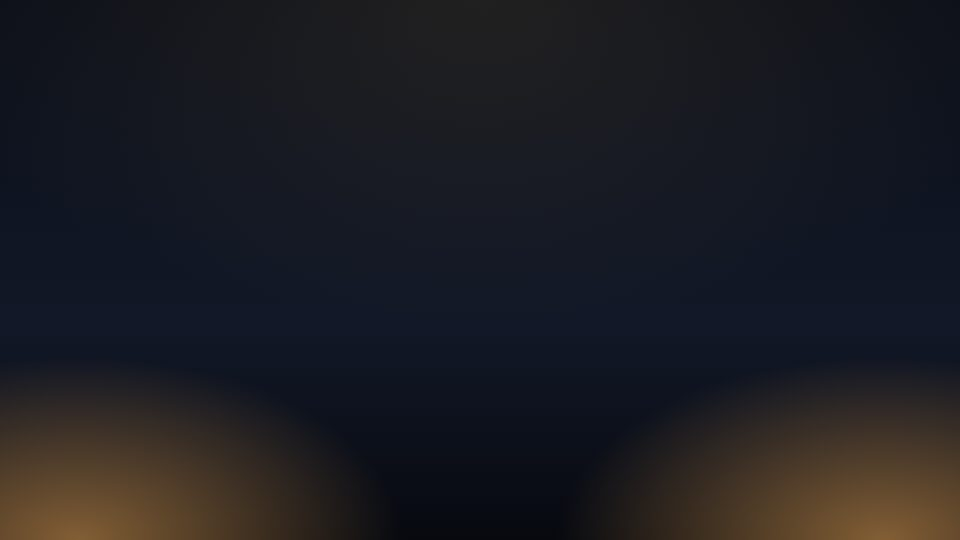
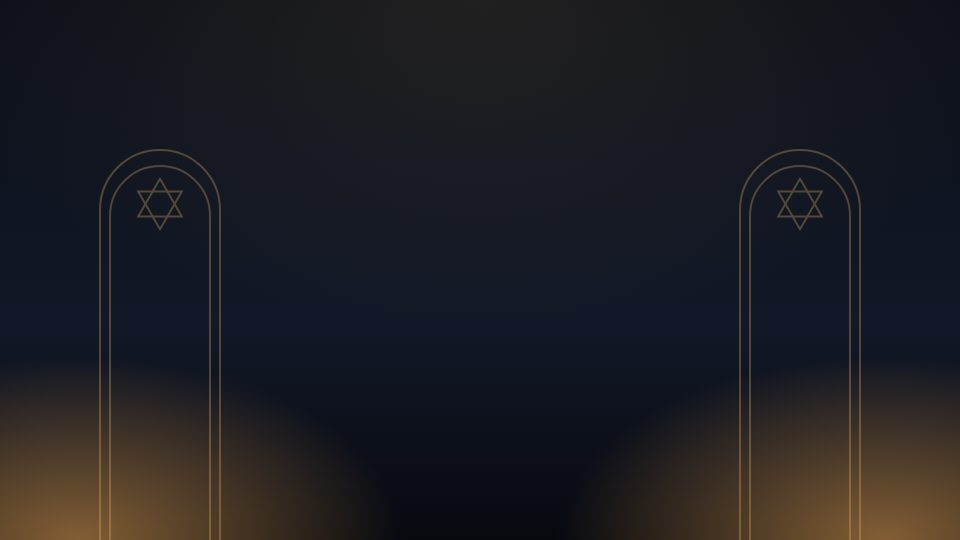
ארבעה עיצובים מוכנים במקום הציורים, והעברה אוטומטית של לוחות מצוירים
- "עיצובים מוכנים": וילון כחול וזהב, לוחות הברית מאבן, מסגרת עץ מגולפת
  ואולם מודרני - כל ציור בנוי מחדש מחלקים (רקע, מסגרות, צבעי טקסט,
  פריסת מדליון), וכל חלק ניתן אחר כך לשינוי בנפרד.
- migratePainted: מעביר לוח מצויר לעיצוב שמחליף את הציור שלו, ושומר את מה
  שהגבאי כיוון - גודל טקסט, בהירות וגוון, קו ועומק המסגרת, צבעי הדיו.
  היום בשבוע, התאריך והשעון מוצגים שוב (הציור הראה אותם תמיד). לוח עם
  ציור מיובא נשאר כמו שהוא.
- במדליון השעון נשאר באמצע גם כשהיום בשבוע מוסתר, ולוחיות והפס התחתון
  לא נחתכים לקשת.
- "אולם כהה" קיבל קשתות עם מגן דוד בצדדים, בתוך השטח שהרקע הזז מראה.

Changed region(s): [[0.7812, 0.2667, 0.9062, 1.0], [0.0938, 0.2667, 0.2188, 1.0]]

diff --git a/src/tv/designs.ts b/src/tv/designs.ts
@@ -199,3 +199,104 @@ export function normalizeDesigns(raw: unknown, normalize: (raw: unknown) => TvCo
   }
   return out;
 }
+
+/* --------------------------------------------------- the ready designs -- */
+
+/**
+ * The painted boards, rebuilt from parts: each is a background from the
+ * library, frames (a style, a shape, a picture of a frame), the text's
+ * colours and the medallion layout. They stand where the four paintings
+ * stood, and unlike them every part can then be changed on its own.
+ *
+ * Only what the look needs is set: the text part carries colours, not the
+ * board's font or its per-line styling, so putting one on keeps those.
+ */
+const ALL: DesignPart[] = ["background", "frames", "text", "layout"];
+const text = (ink: string, dim: string, accent: string, onAccent = "#ffffff") => ({
+  "--tv-text": ink,
+  "--tv-text-dim": dim,
+  "--tv-accent": accent,
+  "--tv-accent-2": accent,
+  "--tv-on-accent": onAccent,
+});
+const background = (picture: string) => ({
+  backgroundGradient: null,
+  backgroundImage: picture,
+  backgroundDim: 0,
+  backgroundTune: { brightness: 1, saturation: 1, hue: 0, blur: 0, tint: null, tintStrength: 0.35 },
+});
+const frames = (patch: Partial<TvConfig["frameStyle"]>) => ({
+  fill: null,
+  fillOpacity: 1,
+  line: null,
+  lineWidth: 2,
+  depth: 0,
+  image: null,
+  imageSlice: 30,
+  imageWidth: 2.5,
+  ...patch,
+});
+
+export const BUILTIN_DESIGNS: SavedDesign[] = [
+  {
+    id: "d_curtain",
+    name: "וילון כחול וזהב",
+    parts: ALL,
+    theme: "royal",
+    colours: { ...text("#1f2d5c", "#4a5578", "#8a5a12"), "--tv-panel": "#f5ecd7" },
+    values: {
+      ...background("backdrop:royal"),
+      skin: "plain",
+      frame: { shape: "auto", top: null, bottom: null },
+      frameStyle: frames({ image: "frame:gold-ornate", imageSlice: 32, imageWidth: 3 }),
+      // The medallion in blue with a white clock, as in the painting.
+      frameLooks: { clock: { bg: "#1b3494", text: "#ffffff", accent: "#ffffff", line: "#d8d8d8", lineWidth: 2 } },
+      screenLayout: "medallion",
+    },
+  },
+  {
+    id: "d_stone",
+    name: "לוחות הברית מאבן",
+    parts: ALL,
+    theme: "stone",
+    colours: { ...text("#3a2a12", "#6b5a3b", "#8a5d12"), "--tv-panel": "#f3e7cc" },
+    values: {
+      ...background("backdrop:wall"),
+      skin: "plain",
+      frame: { shape: "arch", top: null, bottom: null },
+      frameStyle: frames({ fill: "#f3e7cc", line: "#b08d3a", lineWidth: 2.5, depth: 0.6 }),
+      frameLooks: {},
+      screenLayout: "medallion",
+    },
+  },
+  {
+    id: "d_wood",
+    name: "מסגרת עץ מגולפת",
+    parts: ALL,
+    theme: "stone",
+    colours: { ...text("#2b1d0c", "#5a4630", "#7a3e10"), "--tv-panel": "#f3e4c4" },
+    values: {
+      ...background("backdrop:wood"),
+      skin: "plain",
+      frame: { shape: "auto", top: null, bottom: null },
+      frameStyle: frames({ image: "frame:carved-wood", imageSlice: 24, imageWidth: 3 }),
+      frameLooks: { clock: { bg: "#f3e4c4", line: "#7a4a1c", lineWidth: 3 } },
+      screenLayout: "medallion",
+    },
+  },
+  {
+    id: "d_modern",
+    name: "אולם מודרני",
+    parts: ALL,
+    theme: "navy",
+    colours: { ...text("#f3f5f8", "#c9cdd6", "#e6c27a", "#0b1628"), "--tv-panel": "rgba(255, 255, 255, 0.06)" },
+    values: {
+      ...background("backdrop:hall"),
+      skin: "plain",
+      frame: { shape: "round", top: 2.4, bottom: 2.4 },
+      frameStyle: frames({ fill: "#ffffff", fillOpacity: 0.07, line: "#c9a24a", lineWidth: 1.5, depth: 0.45 }),
+      frameLooks: {},
+      screenLayout: "medallion",
+    },
+  },
+];

diff --git a/src/tv/paintedMigration.ts b/src/tv/paintedMigration.ts
@@ -1,0 +1,71 @@
+import type { TvConfig } from "./config";
+import { applyDesign, BUILTIN_DESIGNS } from "./designs";
+
+/**
+ * A painted board, moved onto the ready design that replaces its painting.
+ *
+ * The paintings were one picture each; the designs rebuild them from parts
+ * (a background, frames, the text's colours, the medallion layout). This
+ * puts a board that shows a painting onto its design, and then carries over
+ * what the gabbai had adjusted on the painting, each to the part that now
+ * owns it - so the wall looks as it did, and every part can be changed.
+ *
+ *   type size            illustratedStyle.scale  -> textScale
+ *   brightness, colour   brightness/saturation/hue, stone tint -> backgroundTune
+ *   a line, depth        frameLine/frameLineWidth/frameDepth -> frameStyle
+ *   inks                 ink/accent -> the text's colours; clockInk -> the clock frame
+ *
+ * The painting drew the weekday, the date and the clock whatever the board's
+ * "hidden" list said (that list was written for the ordinary header), so
+ * those three are shown again: the medallion honours the list, and a board
+ * should not lose its weekday by being moved.
+ *
+ * A board that is not painted, or whose painting has no design (an imported
+ * one), is returned as it is.
+ */
+export const DESIGN_FOR_PAINTING: Record<string, string> = {
+  curtain: "d_curtain",
+  stone: "d_stone",
+  wood: "d_wood",
+  modern: "d_modern",
+};
+
+export function migratePainted(c: TvConfig): TvConfig {
+  if (c.screenLayout !== "illustrated") return c;
+  const design = BUILTIN_DESIGNS.find((d) => d.id === DESIGN_FOR_PAINTING[c.illustration]);
+  if (!design) return c;
+
+  // What the painting's own settings were (older boards may carry more keys than the type knows).
+  const old = c.illustratedStyle as TvConfig["illustratedStyle"] & Record<string, unknown>;
+  const num = (k: string, d: number) => (typeof old[k] === "number" ? (old[k] as number) : d);
+  const str = (k: string) => (typeof old[k] === "string" && old[k] ? (old[k] as string) : null);
+
+  let next = applyDesign(c, design);
+
+  next = {
+    ...next,
+    textScale: old.scale ?? next.textScale,
+    backgroundTune: {
+      ...next.backgroundTune,
+      brightness: num("brightness", 1),
+      saturation: num("saturation", 1),
+      hue: num("hue", 0),
+      ...(str("stoneTint") ? { tint: str("stoneTint"), tintStrength: num("stoneTintStrength", 0.35) } : {}),
+    },
+    frameStyle: {
+      ...next.frameStyle,
+      ...(str("frameLine") ? { line: str("frameLine"), lineWidth: num("frameLineWidth", 2) } : {}),
+      ...(num("frameDepth", 0) > 0 ? { depth: num("frameDepth", 0) } : {}),
+    },
+    themeOverrides: {
+      ...next.themeOverrides,
+      ...(old.ink ? { "--tv-text": old.ink } : {}),
+      ...(old.accent ? { "--tv-accent": old.accent, "--tv-accent-2": old.accent } : {}),
+    },
+    frameLooks: old.clockInk
+      ? { ...next.frameLooks, clock: { ...next.frameLooks.clock, text: old.clockInk, accent: old.clockInk } }
+      : next.frameLooks,
+    hidden: next.hidden.filter((k) => k !== "header.weekday" && k !== "header.date" && k !== "header.clock"),
+  };
+  return next;
+}

diff --git a/src/community/components/admin/tv/DesignLibrary.tsx b/src/community/components/admin/tv/DesignLibrary.tsx
@@ -4,7 +4,10 @@ import { toast } from "sonner";
 import { Button } from "@/components/ui/button";
 import { Input } from "@/components/ui/input";
 import type { TvConfig } from "@/tv/config";
+import { findBackdrop } from "@/tv/backdrops";
+import { framePictureUrl } from "@/tv/framePictures";
 import {
+  BUILTIN_DESIGNS,
   DESIGN_PARTS,
   DESIGN_PART_LABELS,
   MAX_DESIGNS,
@@ -51,6 +54,45 @@ export function DesignLibrary({ config, onEdit }: { config: TvConfig; onEdit: Ed
 
   return (
     <div className="space-y-2" data-testid="design-library">
+      <div className="text-sm font-medium">עיצובים מוכנים</div>
+      <div className="grid grid-cols-2 gap-2 sm:grid-cols-4" data-testid="builtin-designs">
+        {BUILTIN_DESIGNS.map((d) => {
+          const wall = findBackdrop(d.values.backgroundImage ?? null);
+          const frame = framePictureUrl(d.values.frameStyle?.image ?? null);
+          return (
+            <button
+              key={d.id}
+              type="button"
+              onClick={() => onEdit("design-apply", (cfg) => applyDesign(cfg, d))}
+              className="overflow-hidden rounded-lg border text-right hover:border-primary/50"
+              title="רקע, מסגרות, צבעי טקסט ופריסת מדליון - וכל חלק ניתן אחר כך לשינוי בנפרד"
+            >
+              <span
+                className="flex aspect-video items-center justify-center gap-1 p-2"
+                style={{ background: wall ? `url("${wall.thumb}") center / cover` : undefined }}
+              >
+                {[0, 1].map((i) => (
+                  <span
+                    key={i}
+                    className="h-3/4 w-2/5"
+                    style={
+                      frame
+                        ? { border: "6px solid transparent", borderImage: `url("${frame}") ${d.values.frameStyle?.imageSlice}% fill / 6px stretch` }
+                        : {
+                            background: d.values.frameStyle?.fill ?? undefined,
+                            opacity: d.values.frameStyle?.fillOpacity ? Math.max(0.35, d.values.frameStyle.fillOpacity) : 1,
+                            border: `1px solid ${d.values.frameStyle?.line ?? "transparent"}`,
+                            borderRadius: d.values.frame?.shape === "arch" ? "50% 50% 3px 3px / 30% 30% 3px 3px" : 4,
+                          }
+                    }
+                  />
+                ))}
+              </span>
+              <span className="block p-2 text-sm font-medium">{d.name}</span>
+            </button>
+          );
+        })}
+      </div>
       {designs.length > 0 && (
         <>
           <div className="text-sm font-medium">העיצובים שלי</div>

diff --git a/src/tv/paintedMigration.test.ts b/src/tv/paintedMigration.test.ts
@@ -1,0 +1,51 @@
+import { describe, expect, it } from "vitest";
+import { normalizeTvConfig } from "./config";
+import { coloursOnScreen } from "./designs";
+import { migratePainted } from "./paintedMigration";
+
+describe("moving a painted board onto its design", () => {
+  it("puts it on the medallion with the matching background and frames", () => {
+    const c = migratePainted(normalizeTvConfig({ screenLayout: "illustrated", illustration: "stone" }));
+    expect(c.screenLayout).toBe("medallion");
+    expect(c.backgroundImage).toBe("backdrop:wall");
+    expect(c.frame.shape).toBe("arch");
+    expect(c.frameStyle.fill).toBe("#f3e7cc");
+    expect(coloursOnScreen(c)["--tv-text"]).toBe("#3a2a12");
+  });
+
+  it("keeps what the gabbai adjusted on the painting, in the part that owns it now", () => {
+    const c = migratePainted(
+      normalizeTvConfig({
+        screenLayout: "illustrated",
+        illustration: "modern",
+        hidden: ["header.address", "header.weekday"],
+        illustratedStyle: { scale: 0.9, rows: 8, hue: -5, brightness: 0.95, frameLine: "#72716e", frameLineWidth: 4, frameDepth: 1, ink: "#fafafa" },
+      }),
+    );
+    expect(c.textScale).toBe(0.9);
+    expect(c.illustratedStyle.rows).toBe(8);
+    expect(c.backgroundTune).toMatchObject({ hue: -5, brightness: 0.95 });
+    expect(c.frameStyle).toMatchObject({ line: "#72716e", lineWidth: 4, depth: 1 });
+    expect(coloursOnScreen(c)["--tv-text"]).toBe("#fafafa");
+    // The painting always showed the weekday; the medallion honours "hidden", so it comes back.
+    expect(c.hidden).toEqual(["header.address"]);
+  });
+
+  it("leaves boards that are not painted, or whose painting has no design, as they are", () => {
+    const flat = normalizeTvConfig({ screenLayout: "dashboard" });
+    expect(migratePainted(flat)).toBe(flat);
+    const own = {
+      id: "i_abcdef12",
+      name: "משלנו",
+      hint: "",
+      ink: "#2e2414",
+      accent: "#6a4a12",
+      clockInk: "#2e2414",
+      boxes: { clock: [44, 4, 56, 22], plaqueR: [62, 6, 90, 18], plaqueL: [10, 6, 38, 18], panelR: [53, 28, 90, 86], panelL: [10, 28, 47, 86] },
+      image: "https://cdn.example/a.jpg",
+    };
+    const imported = normalizeTvConfig({ screenLayout: "illustrated", illustration: own.id, customIllustrations: [own] });
+    expect(imported.illustration).toBe(own.id);
+    expect(migratePainted(imported)).toBe(imported);
+  });
+});

diff --git a/e2e/tv-layers.spec.ts b/e2e/tv-layers.spec.ts
@@ -115,6 +115,19 @@ test.describe("TV editor, by layer", () => {
     await expectNotFrozen(page, "medallion");
   });
 
+  test("a ready design puts a whole look on the board, built from parts", async ({ page }) => {
+    await page.getByTestId("builtin-designs").getByRole("button", { name: "וילון כחול וזהב" }).click();
+    const med = root(page).locator(".tv-med");
+    await expect(med).toBeVisible();
+    await expect(root(page)).toHaveClass(/has-frame-image/);
+    await expect.poll(() => bg(med.locator('[data-frame="clock"]'))).toBe("rgb(27, 52, 148)");
+    // And every part stays its own: another background leaves the frames alone.
+    await page.getByTestId("builtin-designs").getByRole("button", { name: "לוחות הברית מאבן" }).click();
+    await expect(root(page)).toHaveClass(/has-frame-arch/);
+    await expect(root(page)).not.toHaveClass(/has-frame-image/);
+    await expectNotFrozen(page, "ready designs");
+  });
+
   test("text is chosen for the board, inside one frame, or one area", async ({ page }) => {
     const layer = page.getByTestId("layer-text");
     await layer.getByLabel("טקסט של").selectOption("frame:zmanim");

diff --git a/src/tv/TvMedallion.tsx b/src/tv/TvMedallion.tsx
@@ -51,7 +51,7 @@ export function MedallionStage({
     <section className="tv-slide tv-med" aria-label={title}>
       <div className="tv-med-top">
         {!edit.hidden("header.weekday") && (
-          <div className="tv-panel tv-med-plaque" {...edit.frame("date", "header.weekday")}>
+          <div className="tv-panel tv-med-plaque is-weekday" {...edit.frame("date", "header.weekday")}>
             <span>{day.weekday}</span>
           </div>
         )}
@@ -61,7 +61,7 @@ export function MedallionStage({
           </div>
         )}
         {!edit.hidden("header.date") && (
-          <div className="tv-panel tv-med-plaque" {...edit.frame("date", "header.date")}>
+          <div className="tv-panel tv-med-plaque is-date" {...edit.frame("date", "header.date")}>
             <span>{day.hebrew}</span>
           </div>
         )}

diff --git a/src/tv/backdrops.ts b/src/tv/backdrops.ts
@@ -84,7 +84,7 @@ export const TV_BACKDROPS: Backdrop[] = [
   { id: "royal", name: "קטיפה כחולה", note: "וילון קטיפה כחול עם קפלים", light: false, url: royal, thumb: royalThumb },
   { id: "wall", name: "קיר אבנים", note: "אבן ירושלמית חתוכה, שורה על שורה", light: true, url: wall, thumb: wallThumb },
   { id: "wood", name: "עץ אגוז", note: "עץ כהה וחם", light: false, url: wood, thumb: woodThumb },
-  { id: "hall", name: "אולם כהה", note: "כהה, עם אור חם למטה בצדדים", light: false, url: hall, thumb: hallThumb },
+  { id: "hall", name: "אולם כהה", note: "כהה, קשתות בצדדים ואור חם למטה", light: false, url: hall, thumb: hallThumb },
 ];
 
 const PREFIX = BACKDROP_PREFIX;

diff --git a/src/tv/tv.css b/src/tv/tv.css
@@ -5524,3 +5524,23 @@
 .tv-med-plaque span {
   white-space: nowrap;
 }
+
+/* The arch is for the big frames: a one-line plaque or strip cut into an arch loses its line. */
+.tv-root.has-frame-arch .tv-med .tv-panel.tv-med-plaque,
+.tv-root.has-frame-arch .tv-med .tv-panel.tv-med-strip {
+  border-radius: calc(var(--u) * 1.6) !important;
+  padding-top: calc(var(--u) * 1.2);
+}
+
+/* Each piece keeps its place when another is hidden: the clock stays in the middle. */
+.tv-med-top > .is-weekday {
+  grid-column: 1;
+}
+
+.tv-med-top > .tv-med-clock {
+  grid-column: 2;
+}
+
+.tv-med-top > .is-date {
+  grid-column: 3;
+}
